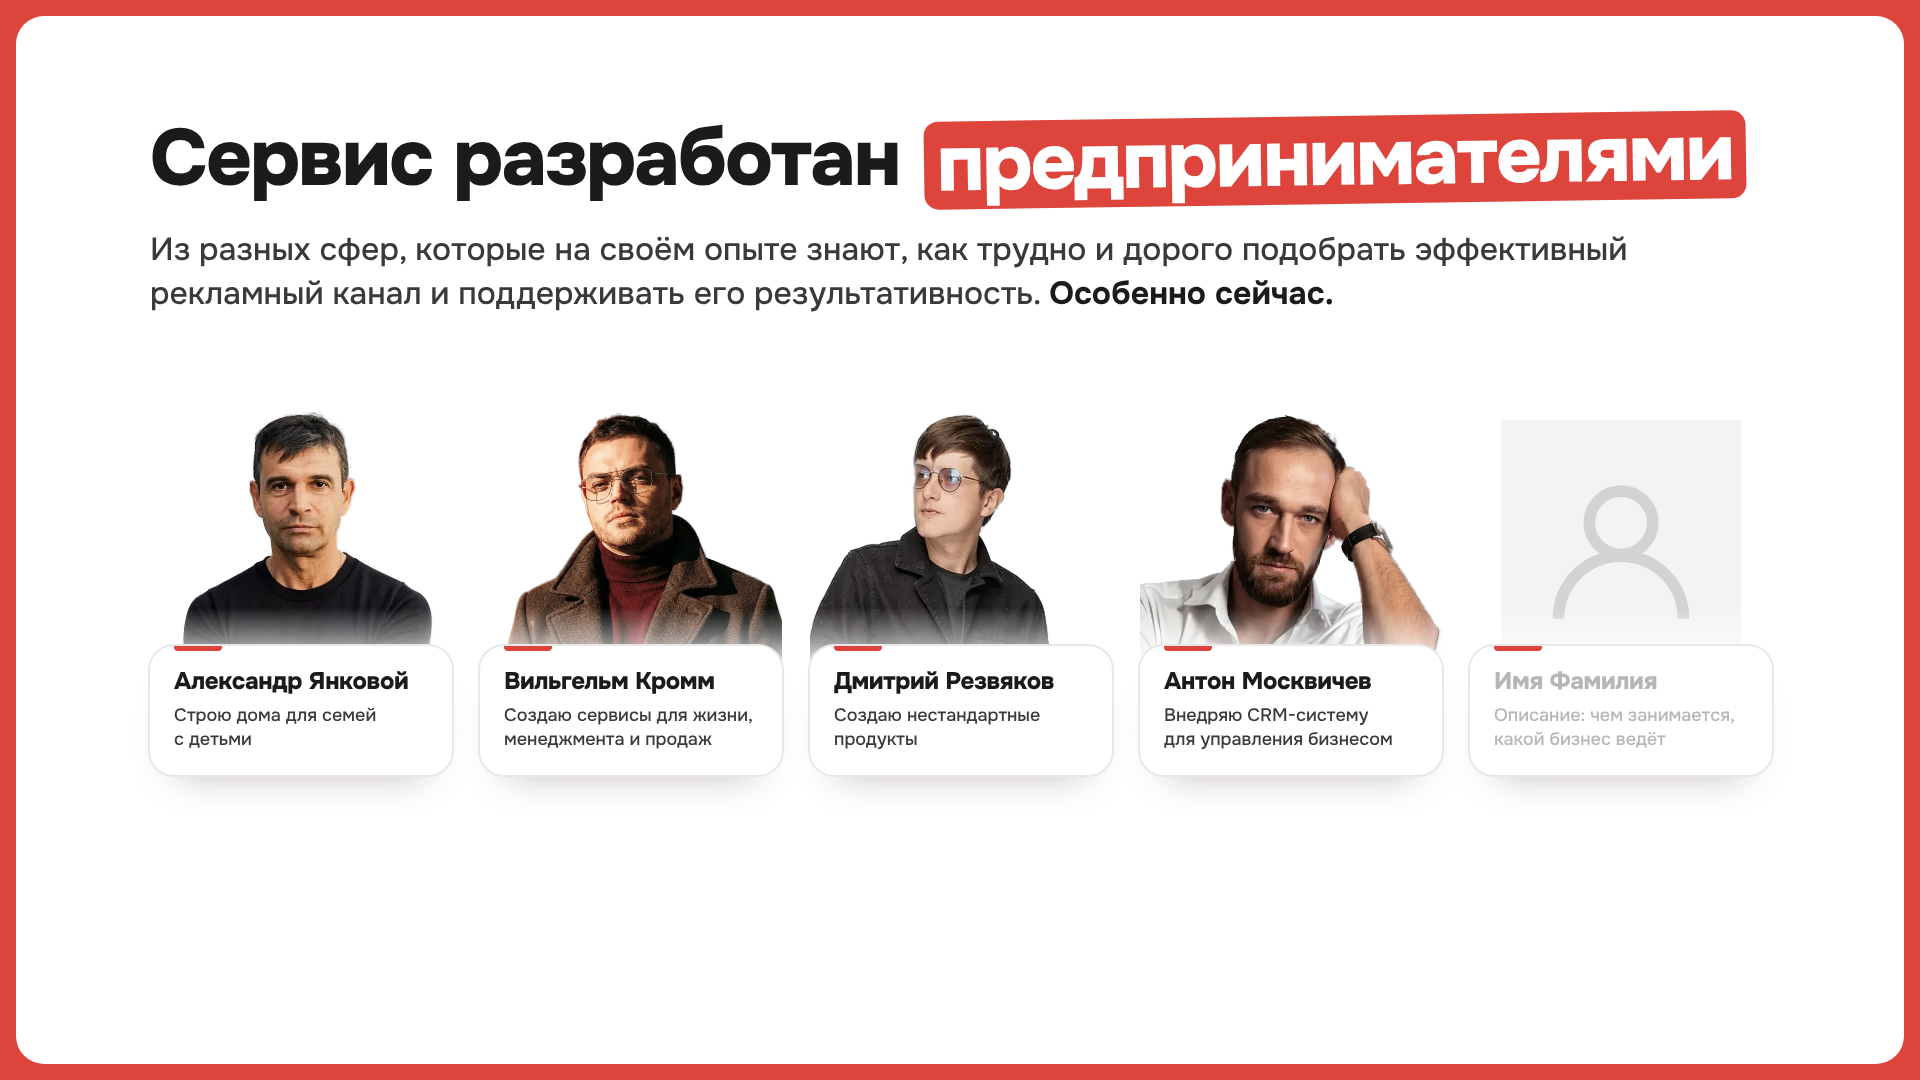
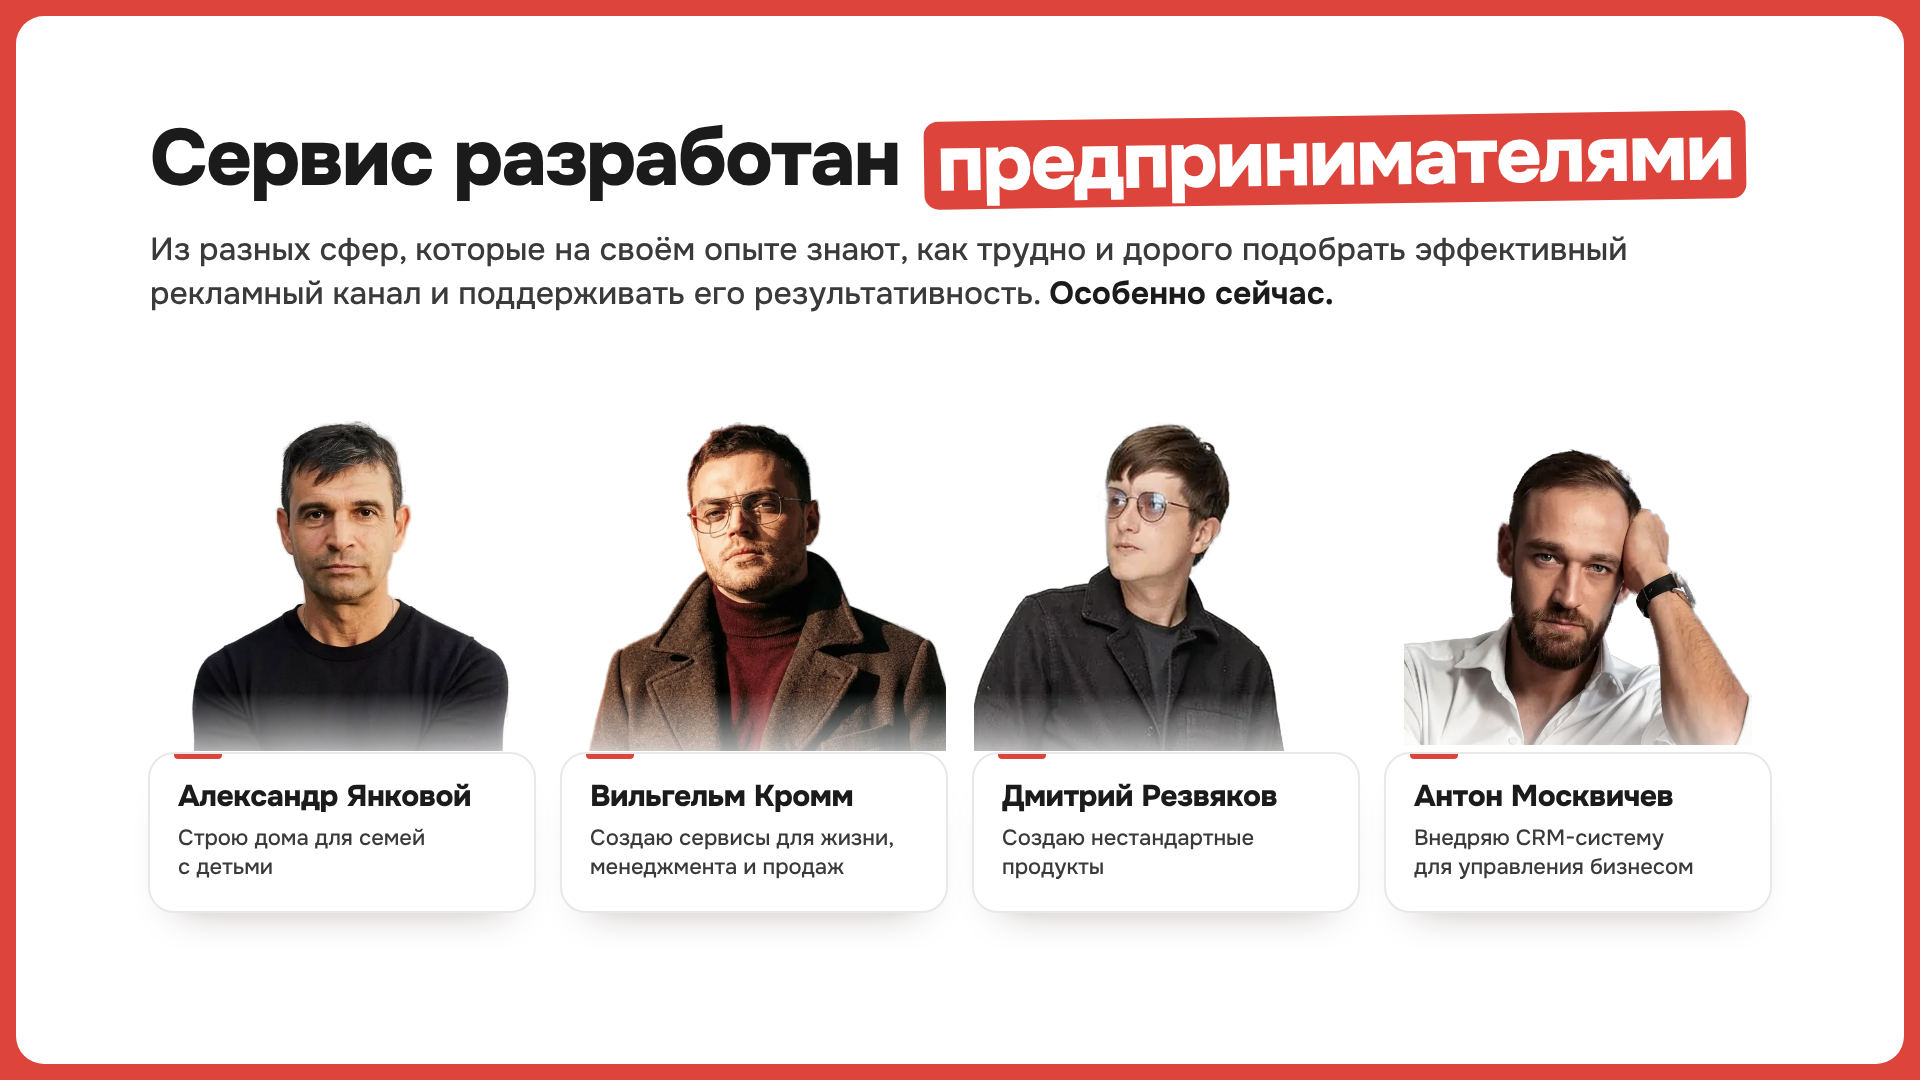
Презентация v3, команда: четыре человека без заглушки, фото и подписи крупнее, Москвичев отдалён под размер остальных
Claude-Session: https://claude.ai/code/session_016TTUbKi4K5ZASpfJrwsQiN

Changed region(s): [[0.0938, 0.3667, 0.9375, 0.8556]]

diff --git a/social-kit/deck-v3.html b/social-kit/deck-v3.html
@@ -328,19 +328,21 @@ a{color:inherit;text-decoration:none}
 #s4 .sub{max-width:1640px}
 .team{position:absolute;left:150px;top:400px;display:flex;gap:28px}
 .mate{flex:1;min-width:0}
-/* Ряд на пять человек (302 px на каждого). Правка 08.10: фото без рамки, края растушёваны в фон; имя и подпись —
+/* Ряд на четыре человека (384 px на каждого). Правка 08.10: фото без рамки, края растушёваны в фон; имя и подпись —
    крупно, в своей плашке под фото, чтобы участники выглядели весомо */
-.mate{position:relative;flex:none;width:302px;display:flex;flex-direction:column}
-.mate__ph{height:292px;background:center top/contain no-repeat;
+.mate{position:relative;flex:none;width:384px;display:flex;flex-direction:column}
+.mate__ph{height:400px;background:center top/contain no-repeat;
   -webkit-mask-image:linear-gradient(#000 78%,transparent 100%);mask-image:linear-gradient(#000 78%,transparent 100%)}
 /* Заглушка до фото: светло-серый силуэт, растушёван снизу как фото */
 .mate__ph--todo{display:grid;place-items:end center;background:linear-gradient(#F3F3F3,#F3F3F3) center 40px/240px 252px no-repeat;border-radius:120px 120px 0 0;color:#D3D3D3}
 .mate__ph--todo svg{width:200px;height:200px;margin-bottom:20px}
+/* Москвичев снят крупнее остальных — отдаляем, чтобы лица были одного размера */
+.mate__ph--far{background-size:auto 84%;background-position:center 45%}
 .mate__ph--pk{background-size:70%;background-position:center 40%}
-.mate__c{position:relative;margin-top:-26px;flex:1;padding:22px 24px 24px;border-radius:24px;background:#fff;box-shadow:0 0 0 2px var(--line),0 24px 40px -28px rgba(40,10,8,.35)}
+.mate__c{position:relative;margin-top:-26px;flex:1;padding:26px 28px 28px;border-radius:24px;background:#fff;box-shadow:0 0 0 2px var(--line),0 24px 40px -28px rgba(40,10,8,.35)}
 .mate__c::before{content:"";position:absolute;left:24px;top:0;width:48px;height:5px;border-radius:0 0 4px 4px;background:var(--brand)}
-.mate__n{white-space:nowrap;font-size:24px;font-weight:800;letter-spacing:-.015em;line-height:1.12}
-.mate__r{margin-top:8px;min-height:2.7em;font-size:18px;font-weight:500;line-height:1.35;color:#3A3A3A}
+.mate__n{white-space:nowrap;font-size:30px;font-weight:800;letter-spacing:-.015em;line-height:1.12}
+.mate__r{margin-top:10px;min-height:2.7em;font-size:22px;font-weight:500;line-height:1.35;color:#3A3A3A}
 
 /* ==========================================================================
    7а. Одно предложение — несколько площадок (переделан 08.10)
@@ -1209,8 +1211,7 @@ a{color:inherit;text-decoration:none}
       <div class="mate"><div class="mate__ph" style="background-image:url('photos/team/yankovoy.png')"></div><div class="mate__c"><div class="mate__n">Александр Янковой</div><div class="mate__r">Строю дома для&nbsp;семей с&nbsp;детьми</div></div></div>
       <div class="mate"><div class="mate__ph" style="background-image:url('photos/team/krom.png')"></div><div class="mate__c"><div class="mate__n">Вильгельм Кромм</div><div class="mate__r">Создаю сервисы для&nbsp;жизни, менеджмента и&nbsp;продаж</div></div></div>
       <div class="mate"><div class="mate__ph" style="background-image:url('photos/team/rezvyakov.png')"></div><div class="mate__c"><div class="mate__n">Дмитрий Резвяков</div><div class="mate__r">Создаю нестандартные продукты</div></div></div>
-      <div class="mate"><div class="mate__ph" style="background-image:url('photos/team/moskvichev.png')"></div><div class="mate__c"><div class="mate__n">Антон Москвичев</div><div class="mate__r">Внедряю CRM-систему для&nbsp;управления бизнесом</div></div></div>
-      <div class="mate"><div class="mate__ph mate__ph--todo"><svg viewBox="0 0 24 24" fill="none" stroke="currentColor" stroke-width="1.4"><circle cx="12" cy="8.5" r="3.8"/><path d="M4.5 20a7.5 7.5 0 0 1 15 0"/></svg></div><div class="mate__c"><div class="mate__n todo">Имя Фамилия</div><div class="mate__r todo">Описание: чем занимается, какой бизнес ведёт</div></div></div>
+      <div class="mate"><div class="mate__ph mate__ph--far" style="background-image:url('photos/team/moskvichev.png')"></div><div class="mate__c"><div class="mate__n">Антон Москвичев</div><div class="mate__r">Внедряю CRM-систему для&nbsp;управления бизнесом</div></div></div>
     </div>
   </section>
 
